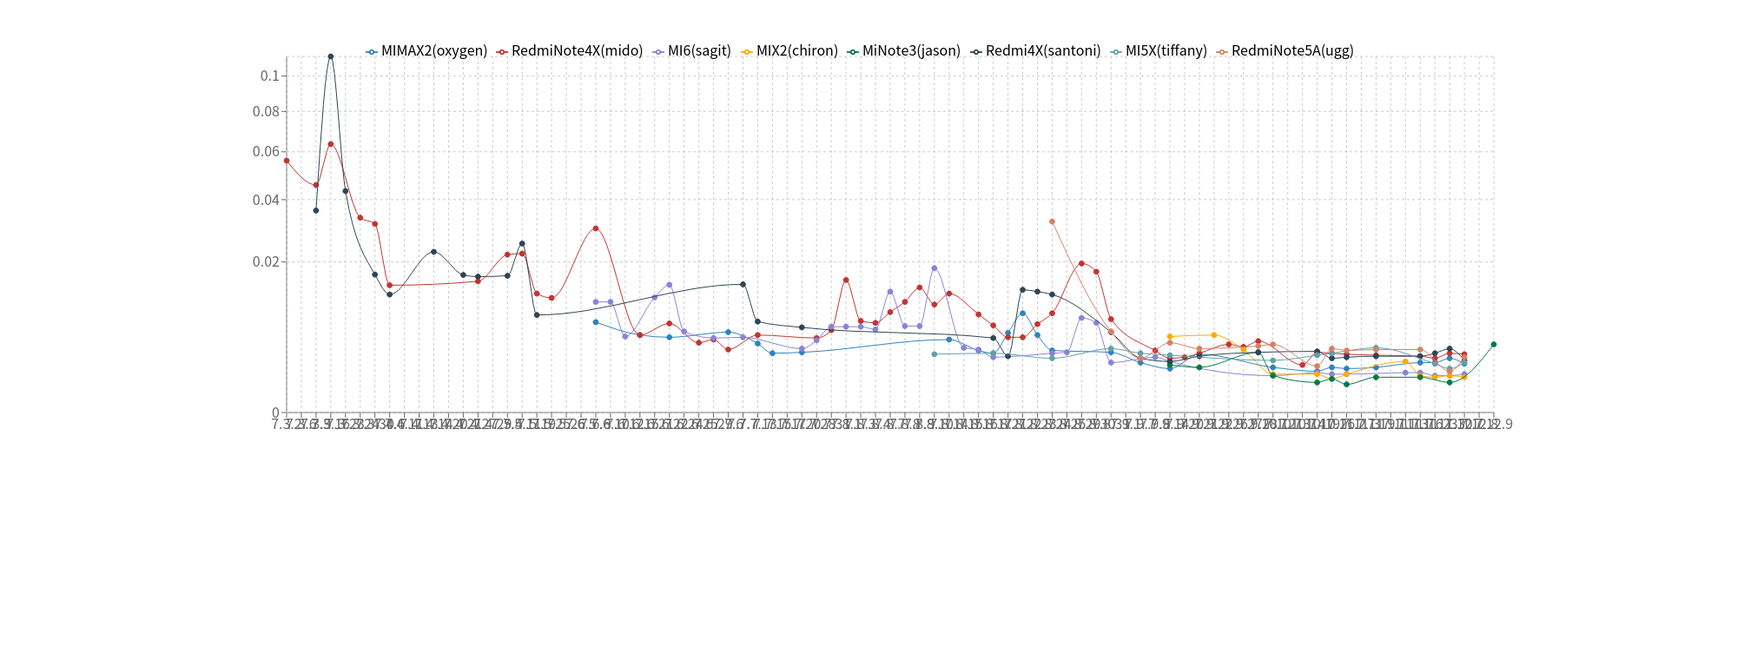
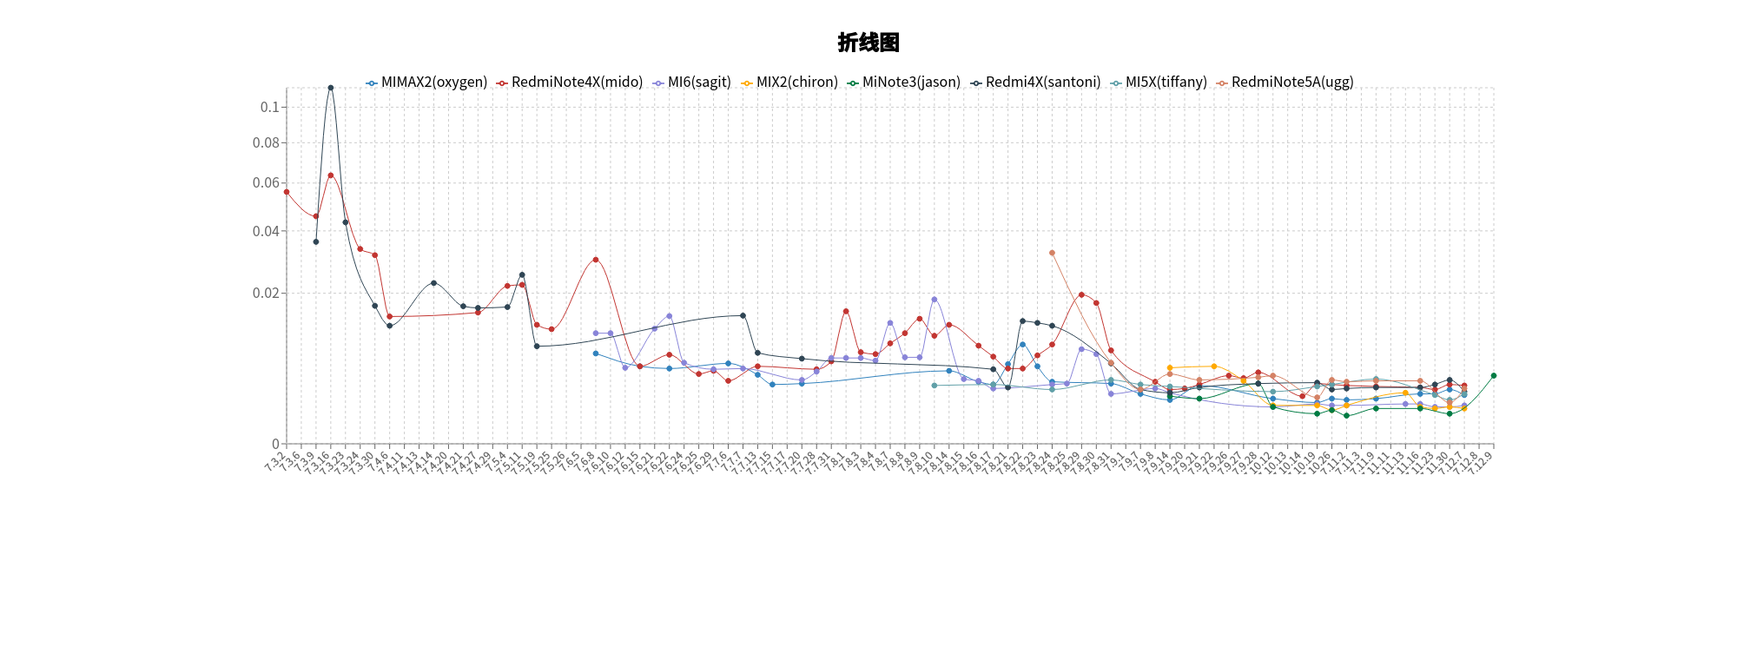
接收参数

Changed region(s): [[0.155, 0.375, 0.868, 0.7188], [0.155, 0.0312, 0.775, 0.4062]]

diff --git a/app/Application.js b/app/Application.js
@@ -1,7 +1,6 @@
 import React from 'react'
 import {LineChart,XAxis, Line, YAxis,Tooltip, CartesianGrid, Legend} from 'recharts'
 import Chart from './chart'
-const data = [{"all":"0.0280","all-attach":{"totalImeis":"1050874","totalExpCounts":"29432"},"RedmiNote4X(mido)":"0.0560","RedmiNote4X(mido)-attach":{"totalImeis":"5035","totalExpCounts":"282"},"index":"7.3.2","date":"7.3.2"},{"all":"0.0075","all-attach":{"totalImeis":"17248","totalExpCounts":"130"},"index":"7.3.6","date":"7.3.6"},{"all":"0.0165","all-attach":{"totalImeis":"1130270","totalExpCounts":"18663"},"RedmiNote4X(mido)":"0.0457","RedmiNote4X(mido)-attach":{"totalImeis":"7157","totalExpCounts":"327"},"Redmi4X(santoni)":"0.0360","Redmi4X(santoni)-attach":{"totalImeis":"445","totalExpCounts":"16"},"index":"7.3.9","date":"7.3.9"},{"all":"0.0164","all-attach":{"totalImeis":"1121344","totalExpCounts":"18422"},"RedmiNote4X(mido)":"0.0636","RedmiNote4X(mido)-attach":{"totalImeis":"8817","totalExpCounts":"561"},"Redmi4X(santoni)":"0.1119","Redmi4X(santoni)-attach":{"totalImeis":"831","totalExpCounts":"93"},"index":"7.3.16","date":"7.3.16"},{"all":"0.0185","all-attach":{"totalImeis":"1070167","totalExpCounts":"19802"},"Redmi4X(santoni)":"0.0433","Redmi4X(santoni)-attach":{"totalImeis":"1593","totalExpCounts":"69"},"index":"7.3.23","date":"7.3.23"},{"all":"0.0341","all-attach":{"totalImeis":"9981","totalExpCounts":"340"},"RedmiNote4X(mido)":"0.0335","RedmiNote4X(mido)-attach":{"totalImeis":"9944","totalExpCounts":"333"},"index":"7.3.24","date":"7.3.24"},{"all":"0.0132","all-attach":{"totalImeis":"1940706","totalExpCounts":"25578"},"RedmiNote4X(mido)":"0.0314","RedmiNote4X(mido)-attach":{"totalImeis":"14277","totalExpCounts":"449"},"Redmi4X(santoni)":"0.0168","Redmi4X(santoni)-attach":{"totalImeis":"3158","totalExpCounts":"53"},"index":"7.3.30","date":"7.3.30"},{"all":"0.0179","all-attach":{"totalImeis":"648760","totalExpCounts":"11636"},"RedmiNote4X(mido)":"0.0143","RedmiNote4X(mido)-attach":{"totalImeis":"52102","totalExpCounts":"746"},"Redmi4X(santoni)":"0.0123","Redmi4X(santoni)-attach":{"totalImeis":"4734","totalExpCounts":"58"},"index":"7.4.6","date":"7.4.6"},{"all":"0.0059","all-attach":{"totalImeis":"1046058","totalExpCounts":"6168"},"MI4S(aqua)":"0.0017","MI4S(aqua)-attach":{"totalImeis":"29341","totalExpCounts":"51"},"index":"7.4.11","date":"7.4.11"},{"all":"0.0095","all-attach":{"totalImeis":"638561","totalExpCounts":"6088"},"index":"7.4.13","date":"7.4.13"},{"all":"0.0164","all-attach":{"totalImeis":"130906","totalExpCounts":"2150"},"Redmi4X(santoni)":"0.0228","Redmi4X(santoni)-attach":{"totalImeis":"4820","totalExpCounts":"110"},"index":"7.4.14","date":"7.4.14"},{"all":"0.0097","all-attach":{"totalImeis":"1377396","totalExpCounts":"13362"},"MI4S(aqua)":"0.0019","MI4S(aqua)-attach":{"totalImeis":"43343","totalExpCounts":"81"},"index":"7.4.20","date":"7.4.20"},{"all":"0.0109","all-attach":{"totalImeis":"101165","totalExpCounts":"1098"},"Redmi4X(santoni)":"0.0167","Redmi4X(santoni)-attach":{"totalImeis":"3538","totalExpCounts":"59"},"index":"7.4.21","date":"7.4.21"},{"all":"0.0089","all-attach":{"totalImeis":"2407907","totalExpCounts":"21453"},"RedmiNote4X(mido)":"0.0152","RedmiNote4X(mido)-attach":{"totalImeis":"24675","totalExpCounts":"376"},"Redmi4X(santoni)":"0.0163","Redmi4X(santoni)-attach":{"totalImeis":"6988","totalExpCounts":"114"},"MI4S(aqua)":"0.0005","MI4S(aqua)-attach":{"totalImeis":"58487","totalExpCounts":"32"},"index":"7.4.27","date":"7.4.27"},{"all":"0.0039","all-attach":{"totalImeis":"743343","totalExpCounts":"2907"},"index":"7.4.29","date":"7.4.29"},{"all":"0.0085","all-attach":{"totalImeis":"2781554","totalExpCounts":"23577"},"RedmiNote4X(mido)":"0.0220","RedmiNote4X(mido)-attach":{"totalImeis":"24704","totalExpCounts":"544"},"Redmi4X(santoni)":"0.0165","Redmi4X(santoni)-attach":{"totalImeis":"6675","totalExpCounts":"110"},"MI4S(aqua)":"0.0046","MI4S(aqua)-attach":{"totalImeis":"48281","totalExpCounts":"223"},"index":"7.5.4","date":"7.5.4"},{"all":"0.0144","all-attach":{"totalImeis":"4025276","totalExpCounts":"58148"},"RedmiNote4X(mido)":"0.0223","RedmiNote4X(mido)-attach":{"totalImeis":"33323","totalExpCounts":"743"},"Redmi4X(santoni)":"0.0252","Redmi4X(santoni)-attach":{"totalImeis":"10716","totalExpCounts":"270"},"MI4S(aqua)":"0.0035","MI4S(aqua)-attach":{"totalImeis":"66274","totalExpCounts":"234"},"index":"7.5.11","date":"7.5.11"},{"all":"0.0064","all-attach":{"totalImeis":"1787866","totalExpCounts":"11370"},"RedmiNote4X(mido)":"0.0125","RedmiNote4X(mido)-attach":{"totalImeis":"18789","totalExpCounts":"235"},"Redmi4X(santoni)":"0.0084","Redmi4X(santoni)-attach":{"totalImeis":"76204","totalExpCounts":"640"},"MI4S(aqua)":"0.0020","MI4S(aqua)-attach":{"totalImeis":"36406","totalExpCounts":"72"},"index":"7.5.19","date":"7.5.19"},{"all":"0.0061","all-attach":{"totalImeis":"4859063","totalExpCounts":"29636"},"RedmiNote4X(mido)":"0.0116","RedmiNote4X(mido)-attach":{"totalImeis":"46375","totalExpCounts":"539"},"MI4S(aqua)":"0.0018","MI4S(aqua)-attach":{"totalImeis":"110028","totalExpCounts":"199"},"index":"7.5.25","date":"7.5.25"},{"all":"0.0141","all-attach":{"totalImeis":"287272","totalExpCounts":"4044"},"index":"7.5.26","date":"7.5.26"},{"all":"0.0156","all-attach":{"totalImeis":"117847","totalExpCounts":"1843"},"index":"7.6.5","date":"7.6.5"},{"all":"0.0068","all-attach":{"totalImeis":"6229716","totalExpCounts":"42604"},"MIMAX2(oxygen)":"0.0072","MIMAX2(oxygen)-attach":{"totalImeis":"2635","totalExpCounts":"19"},"RedmiNote4X(mido)":"0.0299","RedmiNote4X(mido)-attach":{"totalImeis":"31463","totalExpCounts":"940"},"MI6(sagit)":"0.0108","MI6(sagit)-attach":{"totalImeis":"12272","totalExpCounts":"132"},"index":"7.6.8","date":"7.6.8"},{"all":"0.0139","all-attach":{"totalImeis":"3962655","totalExpCounts":"55277"},"MI6(sagit)":"0.0108","MI6(sagit)-attach":{"totalImeis":"2221","totalExpCounts":"24"},"MI4S(aqua)":"0.0018","MI4S(aqua)-attach":{"totalImeis":"15204","totalExpCounts":"27"},"index":"7.6.10","date":"7.6.10"},{"all":"0.0083","all-attach":{"totalImeis":"16346","totalExpCounts":"136"},"MI6(sagit)":"0.0051","MI6(sagit)-attach":{"totalImeis":"15938","totalExpCounts":"82"},"index":"7.6.12","date":"7.6.12"},{"all":"0.0030","all-attach":{"totalImeis":"1589557","totalExpCounts":"4732"},"MIMAX2(oxygen)":"0.0053","MIMAX2(oxygen)-attach":{"totalImeis":"5520","totalExpCounts":"29"},"RedmiNote4X(mido)":"0.0053","RedmiNote4X(mido)-attach":{"totalImeis":"35378","totalExpCounts":"188"},"MI4S(aqua)":"0.0020","MI4S(aqua)-attach":{"totalImeis":"55440","totalExpCounts":"109"},"index":"7.6.15","date":"7.6.15"},{"all":"0.0120","all-attach":{"totalImeis":"1750","totalExpCounts":"21"},"MI6(sagit)":"0.0117","MI6(sagit)-attach":{"totalImeis":"1703","totalExpCounts":"20"},"index":"7.6.21","date":"7.6.21"},{"all":"0.0042","all-attach":{"totalImeis":"84176","totalExpCounts":"352"},"MIMAX2(oxygen)":"0.0050","MIMAX2(oxygen)-attach":{"totalImeis":"18825","totalExpCounts":"95"},"RedmiNote4X(mido)":"0.0070","RedmiNote4X(mido)-attach":{"totalImeis":"6868","totalExpCounts":"48"},"MI6(sagit)":"0.0144","MI6(sagit)-attach":{"totalImeis":"4014","totalExpCounts":"58"},"MI4S(aqua)":"0.0028","MI4S(aqua)-attach":{"totalImeis":"4936","totalExpCounts":"14"},"index":"7.6.22","date":"7.6.22"},{"all":"0.0058","all-attach":{"totalImeis":"45322","totalExpCounts":"263"},"MI6(sagit)":"0.0058","MI6(sagit)-attach":{"totalImeis":"45322","totalExpCounts":"263"},"index":"7.6.24","date":"7.6.24"},{"all":"0.0035","all-attach":{"totalImeis":"723113","totalExpCounts":"2564"},"RedmiNote4X(mido)":"0.0043","RedmiNote4X(mido)-attach":{"totalImeis":"39084","totalExpCounts":"169"},"MI4S(aqua)":"0.0019","MI4S(aqua)-attach":{"totalImeis":"26422","totalExpCounts":"51"},"index":"7.6.25","date":"7.6.25"},{"all":"0.0046","all-attach":{"totalImeis":"1426230","totalExpCounts":"6521"},"RedmiNote4X(mido)":"0.0047","RedmiNote4X(mido)-attach":{"totalImeis":"20676","totalExpCounts":"97"},"MI6(sagit)":"0.0049","MI6(sagit)-attach":{"totalImeis":"63275","totalExpCounts":"308"},"MI4S(aqua)":"0.0020","MI4S(aqua)-attach":{"totalImeis":"46822","totalExpCounts":"95"},"index":"7.6.29","date":"7.6.29"},{"all":"0.0041","all-attach":{"totalImeis":"1415234","totalExpCounts":"5753"},"MIMAX2(oxygen)":"0.0057","MIMAX2(oxygen)-attach":{"totalImeis":"10346","totalExpCounts":"59"},"RedmiNote4X(mido)":"0.0035","RedmiNote4X(mido)-attach":{"totalImeis":"43267","totalExpCounts":"152"},"MI4S(aqua)":"0.0020","MI4S(aqua)-attach":{"totalImeis":"47080","totalExpCounts":"94"},"index":"7.7.6","date":"7.7.6"},{"all":"0.0053","all-attach":{"totalImeis":"210807","totalExpCounts":"1120"},"MI6(sagit)":"0.0050","MI6(sagit)-attach":{"totalImeis":"203053","totalExpCounts":"1007"},"Redmi4X(santoni)":"0.0145","Redmi4X(santoni)-attach":{"totalImeis":"7698","totalExpCounts":"112"},"index":"7.7.7","date":"7.7.7"},{"all":"0.0044","all-attach":{"totalImeis":"1193781","totalExpCounts":"5212"},"MIMAX2(oxygen)":"0.0042","MIMAX2(oxygen)-attach":{"totalImeis":"3132","totalExpCounts":"13"},"RedmiNote4X(mido)":"0.0053","RedmiNote4X(mido)-attach":{"totalImeis":"92360","totalExpCounts":"491"},"Redmi4X(santoni)":"0.0073","Redmi4X(santoni)-attach":{"totalImeis":"14555","totalExpCounts":"106"},"MI4S(aqua)":"0.0023","MI4S(aqua)-attach":{"totalImeis":"48546","totalExpCounts":"114"},"index":"7.7.13","date":"7.7.13"},{"all":"0.0029","all-attach":{"totalImeis":"195710","totalExpCounts":"567"},"MIMAX2(oxygen)":"0.0031","MIMAX2(oxygen)-attach":{"totalImeis":"10002","totalExpCounts":"31"},"index":"7.7.15","date":"7.7.15"},{"all":"0.0063","all-attach":{"totalImeis":"1265","totalExpCounts":"8"},"index":"7.7.17","date":"7.7.17"},{"all":"0.0035","all-attach":{"totalImeis":"5280770","totalExpCounts":"18294"},"MIMAX2(oxygen)":"0.0032","MIMAX2(oxygen)-attach":{"totalImeis":"121719","totalExpCounts":"387"},"MI6(sagit)":"0.0036","MI6(sagit)-attach":{"totalImeis":"129957","totalExpCounts":"468"},"Redmi4X(santoni)":"0.0064","Redmi4X(santoni)-attach":{"totalImeis":"79085","totalExpCounts":"504"},"MI4S(aqua)":"0.0025","MI4S(aqua)-attach":{"totalImeis":"216240","totalExpCounts":"550"},"index":"7.7.20","date":"7.7.20"},{"all":"0.0047","all-attach":{"totalImeis":"60406","totalExpCounts":"286"},"RedmiNote4X(mido)":"0.0049","RedmiNote4X(mido)-attach":{"totalImeis":"16199","totalExpCounts":"79"},"MI6(sagit)":"0.0046","MI6(sagit)-attach":{"totalImeis":"43971","totalExpCounts":"204"},"index":"7.7.28","date":"7.7.28"},{"all":"0.0066","all-attach":{"totalImeis":"15693","totalExpCounts":"103"},"RedmiNote4X(mido)":"0.0060","RedmiNote4X(mido)-attach":{"totalImeis":"3969","totalExpCounts":"24"},"MI6(sagit)":"0.0065","MI6(sagit)-attach":{"totalImeis":"11589","totalExpCounts":"75"},"index":"7.7.31","date":"7.7.31"},{"all":"0.0087","all-attach":{"totalImeis":"19805","totalExpCounts":"172"},"RedmiNote4X(mido)":"0.0155","RedmiNote4X(mido)-attach":{"totalImeis":"4632","totalExpCounts":"72"},"MI6(sagit)":"0.0065","MI6(sagit)-attach":{"totalImeis":"14938","totalExpCounts":"97"},"index":"7.8.1","date":"7.8.1"},{"all":"0.0075","all-attach":{"totalImeis":"19556","totalExpCounts":"146"},"RedmiNote4X(mido)":"0.0074","RedmiNote4X(mido)-attach":{"totalImeis":"5278","totalExpCounts":"39"},"MI6(sagit)":"0.0065","MI6(sagit)-attach":{"totalImeis":"13795","totalExpCounts":"89"},"index":"7.8.3","date":"7.8.3"},{"all":"0.0064","all-attach":{"totalImeis":"102455","totalExpCounts":"653"},"RedmiNote4X(mido)":"0.0071","RedmiNote4X(mido)-attach":{"totalImeis":"27789","totalExpCounts":"197"},"MI6(sagit)":"0.0061","MI6(sagit)-attach":{"totalImeis":"74489","totalExpCounts":"455"},"index":"7.8.4","date":"7.8.4"},{"all":"0.0118","all-attach":{"totalImeis":"17033","totalExpCounts":"201"},"RedmiNote4X(mido)":"0.0089","RedmiNote4X(mido)-attach":{"totalImeis":"4966","totalExpCounts":"44"},"MI6(sagit)":"0.0129","MI6(sagit)-attach":{"totalImeis":"11755","totalExpCounts":"152"},"index":"7.8.7","date":"7.8.7"},{"all":"0.0077","all-attach":{"totalImeis":"28924","totalExpCounts":"224"},"RedmiNote4X(mido)":"0.0108","RedmiNote4X(mido)-attach":{"totalImeis":"7342","totalExpCounts":"79"},"MI6(sagit)":"0.0066","MI6(sagit)-attach":{"totalImeis":"21460","totalExpCounts":"142"},"index":"7.8.8","date":"7.8.8"},{"all":"0.0089","all-attach":{"totalImeis":"23967","totalExpCounts":"213"},"RedmiNote4X(mido)":"0.0138","RedmiNote4X(mido)-attach":{"totalImeis":"6973","totalExpCounts":"96"},"MI6(sagit)":"0.0066","MI6(sagit)-attach":{"totalImeis":"16959","totalExpCounts":"112"},"index":"7.8.9","date":"7.8.9"},{"all":"0.0151","all-attach":{"totalImeis":"426689","totalExpCounts":"6427"},"RedmiNote4X(mido)":"0.0103","RedmiNote4X(mido)-attach":{"totalImeis":"99359","totalExpCounts":"1019"},"MI6(sagit)":"0.0184","MI6(sagit)-attach":{"totalImeis":"287314","totalExpCounts":"5275"},"MI5X(tiffany)":"0.0030","MI5X(tiffany)-attach":{"totalImeis":"39782","totalExpCounts":"118"},"index":"7.8.10","date":"7.8.10"},{"all":"0.0469","all-attach":{"totalImeis":"38238","totalExpCounts":"1792"},"MIMAX2(oxygen)":"0.0047","MIMAX2(oxygen)-attach":{"totalImeis":"2991","totalExpCounts":"14"},"RedmiNote4X(mido)":"0.0125","RedmiNote4X(mido)-attach":{"totalImeis":"14254","totalExpCounts":"178"},"index":"7.8.14","date":"7.8.14"},{"all":"0.0037","all-attach":{"totalImeis":"98361","totalExpCounts":"368"},"MI6(sagit)":"0.0037","MI6(sagit)-attach":{"totalImeis":"98077","totalExpCounts":"364"},"index":"7.8.15","date":"7.8.15"},{"all":"0.0190","all-attach":{"totalImeis":"42882","totalExpCounts":"813"},"MIMAX2(oxygen)":"0.0034","MIMAX2(oxygen)-attach":{"totalImeis":"1467","totalExpCounts":"5"},"RedmiNote4X(mido)":"0.0085","RedmiNote4X(mido)-attach":{"totalImeis":"9500","totalExpCounts":"81"},"MI6(sagit)":"0.0035","MI6(sagit)-attach":{"totalImeis":"23025","totalExpCounts":"81"},"index":"7.8.16","date":"7.8.16"},{"all":"0.0045","all-attach":{"totalImeis":"681186","totalExpCounts":"3070"},"MIMAX2(oxygen)":"0.0031","MIMAX2(oxygen)-attach":{"totalImeis":"8663","totalExpCounts":"27"},"RedmiNote4X(mido)":"0.0067","RedmiNote4X(mido)-attach":{"totalImeis":"100432","totalExpCounts":"670"},"MI6(sagit)":"0.0027","MI6(sagit)-attach":{"totalImeis":"348021","totalExpCounts":"952"},"Redmi4X(santoni)":"0.0049","Redmi4X(santoni)-attach":{"totalImeis":"4911","totalExpCounts":"24"},"MI5X(tiffany)":"0.0031","MI5X(tiffany)-attach":{"totalImeis":"62020","totalExpCounts":"194"},"index":"7.8.17","date":"7.8.17"},{"all":"0.0052","all-attach":{"totalImeis":"39646","totalExpCounts":"208"},"MIMAX2(oxygen)":"0.0056","MIMAX2(oxygen)-attach":{"totalImeis":"1598","totalExpCounts":"9"},"RedmiNote4X(mido)":"0.0050","RedmiNote4X(mido)-attach":{"totalImeis":"8963","totalExpCounts":"45"},"Redmi4X(santoni)":"0.0028","Redmi4X(santoni)-attach":{"totalImeis":"704","totalExpCounts":"2"},"index":"7.8.21","date":"7.8.21"},{"all":"0.0066","all-attach":{"totalImeis":"28354","totalExpCounts":"187"},"MIMAX2(oxygen)":"0.0087","MIMAX2(oxygen)-attach":{"totalImeis":"1378","totalExpCounts":"12"},"RedmiNote4X(mido)":"0.0050","RedmiNote4X(mido)-attach":{"totalImeis":"7249","totalExpCounts":"36"},"Redmi4X(santoni)":"0.0133","Redmi4X(santoni)-attach":{"totalImeis":"526","totalExpCounts":"7"},"index":"7.8.22","date":"7.8.22"},{"all":"0.0120","all-attach":{"totalImeis":"33394","totalExpCounts":"401"},"MIMAX2(oxygen)":"0.0053","MIMAX2(oxygen)-attach":{"totalImeis":"1327","totalExpCounts":"7"},"RedmiNote4X(mido)":"0.0069","RedmiNote4X(mido)-attach":{"totalImeis":"8553","totalExpCounts":"59"},"Redmi4X(santoni)":"0.0129","Redmi4X(santoni)-attach":{"totalImeis":"541","totalExpCounts":"7"},"index":"7.8.23","date":"7.8.23"},{"all":"0.0043","all-attach":{"totalImeis":"2423530","totalExpCounts":"10542"},"MIMAX2(oxygen)":"0.0034","MIMAX2(oxygen)-attach":{"totalImeis":"54132","totalExpCounts":"183"},"RedmiNote4X(mido)":"0.0087","RedmiNote4X(mido)-attach":{"totalImeis":"110793","totalExpCounts":"969"},"MI6(sagit)":"0.0031","MI6(sagit)-attach":{"totalImeis":"595859","totalExpCounts":"1844"},"Redmi4X(santoni)":"0.0123","Redmi4X(santoni)-attach":{"totalImeis":"38918","totalExpCounts":"477"},"MI5X(tiffany)":"0.0026","MI5X(tiffany)-attach":{"totalImeis":"87969","totalExpCounts":"230"},"RedmiNote5A(ugg)":"0.0322","RedmiNote5A(ugg)-attach":{"totalImeis":"1272","totalExpCounts":"41"},"MI4S(aqua)":"0.0026","MI4S(aqua)-attach":{"totalImeis":"54744","totalExpCounts":"145"},"index":"7.8.24","date":"7.8.24"},{"all":"0.0032","all-attach":{"totalImeis":"127333","totalExpCounts":"411"},"MI6(sagit)":"0.0032","MI6(sagit)-attach":{"totalImeis":"127093","totalExpCounts":"408"},"index":"7.8.25","date":"7.8.25"},{"all":"0.0112","all-attach":{"totalImeis":"34076","totalExpCounts":"380"},"RedmiNote4X(mido)":"0.0196","RedmiNote4X(mido)-attach":{"totalImeis":"9422","totalExpCounts":"185"},"MI6(sagit)":"0.0079","MI6(sagit)-attach":{"totalImeis":"24193","totalExpCounts":"192"},"index":"7.8.29","date":"7.8.29"},{"all":"0.0086","all-attach":{"totalImeis":"59394","totalExpCounts":"511"},"RedmiNote4X(mido)":"0.0175","RedmiNote4X(mido)-attach":{"totalImeis":"8493","totalExpCounts":"149"},"MI6(sagit)":"0.0071","MI6(sagit)-attach":{"totalImeis":"41162","totalExpCounts":"293"},"index":"7.8.30","date":"7.8.30"},{"all":"0.0034","all-attach":{"totalImeis":"2363607","totalExpCounts":"8132"},"MIMAX2(oxygen)":"0.0032","MIMAX2(oxygen)-attach":{"totalImeis":"56546","totalExpCounts":"183"},"RedmiNote4X(mido)":"0.0077","RedmiNote4X(mido)-attach":{"totalImeis":"107969","totalExpCounts":"829"},"MI6(sagit)":"0.0022","MI6(sagit)-attach":{"totalImeis":"563355","totalExpCounts":"1229"},"Redmi4X(santoni)":"0.0057","Redmi4X(santoni)-attach":{"totalImeis":"41870","totalExpCounts":"239"},"MI5X(tiffany)":"0.0036","MI5X(tiffany)-attach":{"totalImeis":"103233","totalExpCounts":"372"},"RedmiNote5A(ugg)":"0.0058","RedmiNote5A(ugg)-attach":{"totalImeis":"2744","totalExpCounts":"16"},"MI4S(aqua)":"0.0024","MI4S(aqua)-attach":{"totalImeis":"51854","totalExpCounts":"122"},"index":"7.8.31","date":"7.8.31"},{"all":"0.0053","all-attach":{"totalImeis":"95140","totalExpCounts":"502"},"index":"7.9.1","date":"7.9.1"},{"all":"0.0066","all-attach":{"totalImeis":"1886151","totalExpCounts":"12535"},"MIMAX2(oxygen)":"0.0022","MIMAX2(oxygen)-attach":{"totalImeis":"71357","totalExpCounts":"159"},"Redmi4X(santoni)":"0.0026","Redmi4X(santoni)-attach":{"totalImeis":"42837","totalExpCounts":"113"},"MI5X(tiffany)":"0.0031","MI5X(tiffany)-attach":{"totalImeis":"106755","totalExpCounts":"336"},"RedmiNote5A(ugg)":"0.0026","RedmiNote5A(ugg)-attach":{"totalImeis":"3802","totalExpCounts":"10"},"MI4S(aqua)":"0.0033","MI4S(aqua)-attach":{"totalImeis":"49326","totalExpCounts":"164"},"index":"7.9.7","date":"7.9.7"},{"all":"0.0036","all-attach":{"totalImeis":"1411038","totalExpCounts":"5089"},"RedmiNote4X(mido)":"0.0034","RedmiNote4X(mido)-attach":{"totalImeis":"113282","totalExpCounts":"390"},"MI6(sagit)":"0.0027","MI6(sagit)-attach":{"totalImeis":"430539","totalExpCounts":"1175"},"index":"7.9.8","date":"7.9.8"},{"all":"0.0036","all-attach":{"totalImeis":"4337435","totalExpCounts":"15486"},"MIMAX2(oxygen)":"0.0017","MIMAX2(oxygen)-attach":{"totalImeis":"89518","totalExpCounts":"152"},"RedmiNote4X(mido)":"0.0026","RedmiNote4X(mido)-attach":{"totalImeis":"222801","totalExpCounts":"582"},"MI6(sagit)":"0.0023","MI6(sagit)-attach":{"totalImeis":"875224","totalExpCounts":"1983"},"MIX2(chiron)":"0.0051","MIX2(chiron)-attach":{"totalImeis":"6732","totalExpCounts":"34"},"MiNote3(jason)":"0.0020","MiNote3(jason)-attach":{"totalImeis":"56401","totalExpCounts":"110"},"Redmi4X(santoni)":"0.0023","Redmi4X(santoni)-attach":{"totalImeis":"39428","totalExpCounts":"90"},"MI5X(tiffany)":"0.0029","MI5X(tiffany)-attach":{"totalImeis":"409334","totalExpCounts":"1200"},"RedmiNote5A(ugg)":"0.0043","RedmiNote5A(ugg)-attach":{"totalImeis":"4234","totalExpCounts":"18"},"MI4S(aqua)":"0.0014","MI4S(aqua)-attach":{"totalImeis":"44757","totalExpCounts":"62"},"index":"7.9.14","date":"7.9.14"},{"all":"0.0033","all-attach":{"totalImeis":"23174","totalExpCounts":"76"},"RedmiNote4X(mido)":"0.0027","RedmiNote4X(mido)-attach":{"totalImeis":"22921","totalExpCounts":"62"},"index":"7.9.20","date":"7.9.20"},{"all":"0.0054","all-attach":{"totalImeis":"6730811","totalExpCounts":"36318"},"MIMAX2(oxygen)":"0.0030","MIMAX2(oxygen)-attach":{"totalImeis":"236110","totalExpCounts":"716"},"RedmiNote4X(mido)":"0.0031","RedmiNote4X(mido)-attach":{"totalImeis":"8706","totalExpCounts":"27"},"MiNote3(jason)":"0.0018","MiNote3(jason)-attach":{"totalImeis":"1646","totalExpCounts":"3"},"Redmi4X(santoni)":"0.0028","Redmi4X(santoni)-attach":{"totalImeis":"97044","totalExpCounts":"270"},"RedmiNote5A(ugg)":"0.0036","RedmiNote5A(ugg)-attach":{"totalImeis":"14939","totalExpCounts":"54"},"MI4S(aqua)":"0.0021","MI4S(aqua)-attach":{"totalImeis":"114310","totalExpCounts":"243"},"index":"7.9.21","date":"7.9.21"},{"all":"0.0053","all-attach":{"totalImeis":"110728","totalExpCounts":"587"},"MIX2(chiron)":"0.0053","MIX2(chiron)-attach":{"totalImeis":"110435","totalExpCounts":"586"},"index":"7.9.22","date":"7.9.22"},{"all":"0.0041","all-attach":{"totalImeis":"4376","totalExpCounts":"18"},"RedmiNote4X(mido)":"0.0041","RedmiNote4X(mido)-attach":{"totalImeis":"4376","totalExpCounts":"18"},"index":"7.9.26","date":"7.9.26"},{"all":"0.0035","all-attach":{"totalImeis":"49571","totalExpCounts":"175"},"RedmiNote4X(mido)":"0.0038","RedmiNote4X(mido)-attach":{"totalImeis":"1568","totalExpCounts":"6"},"MIX2(chiron)":"0.0035","MIX2(chiron)-attach":{"totalImeis":"47753","totalExpCounts":"168"},"index":"7.9.27","date":"7.9.27"},{"all":"0.0030","all-attach":{"totalImeis":"1160611","totalExpCounts":"3484"},"RedmiNote4X(mido)":"0.0045","RedmiNote4X(mido)-attach":{"totalImeis":"20351","totalExpCounts":"92"},"MiNote3(jason)":"0.0032","MiNote3(jason)-attach":{"totalImeis":"2525","totalExpCounts":"8"},"Redmi4X(santoni)":"0.0032","Redmi4X(santoni)-attach":{"totalImeis":"79226","totalExpCounts":"254"},"RedmiNote5A(ugg)":"0.0039","RedmiNote5A(ugg)-attach":{"totalImeis":"4367","totalExpCounts":"17"},"MI4S(aqua)":"0.0019","MI4S(aqua)-attach":{"totalImeis":"27475","totalExpCounts":"52"},"index":"7.9.28","date":"7.9.28"},{"all":"0.0031","all-attach":{"totalImeis":"4433738","totalExpCounts":"13724"},"MIMAX2(oxygen)":"0.0018","MIMAX2(oxygen)-attach":{"totalImeis":"148452","totalExpCounts":"264"},"MI6(sagit)":"0.0012","MI6(sagit)-attach":{"totalImeis":"722690","totalExpCounts":"879"},"MIX2(chiron)":"0.0013","MIX2(chiron)-attach":{"totalImeis":"115460","totalExpCounts":"145"},"MiNote3(jason)":"0.0012","MiNote3(jason)-attach":{"totalImeis":"44361","totalExpCounts":"52"},"MI5X(tiffany)":"0.0024","MI5X(tiffany)-attach":{"totalImeis":"174771","totalExpCounts":"413"},"RedmiNote5A(ugg)":"0.0041","RedmiNote5A(ugg)-attach":{"totalImeis":"9567","totalExpCounts":"39"},"MI4S(aqua)":"0.0014","MI4S(aqua)-attach":{"totalImeis":"52577","totalExpCounts":"76"},"index":"7.10.12","date":"7.10.12"},{"all":"0.0026","all-attach":{"totalImeis":"8061","totalExpCounts":"21"},"index":"7.10.13","date":"7.10.13"},{"all":"0.0020","all-attach":{"totalImeis":"131278","totalExpCounts":"259"},"RedmiNote4X(mido)":"0.0020","RedmiNote4X(mido)-attach":{"totalImeis":"131278","totalExpCounts":"259"},"index":"7.10.14","date":"7.10.14"},{"all":"0.0033","all-attach":{"totalImeis":"4964282","totalExpCounts":"16511"},"MIMAX2(oxygen)":"0.0015","MIMAX2(oxygen)-attach":{"totalImeis":"152118","totalExpCounts":"227"},"RedmiNote4X(mido)":"0.0032","RedmiNote4X(mido)-attach":{"totalImeis":"216638","totalExpCounts":"701"},"MI6(sagit)":"0.0014","MI6(sagit)-attach":{"totalImeis":"870373","totalExpCounts":"1223"},"MIX2(chiron)":"0.0013","MIX2(chiron)-attach":{"totalImeis":"140178","totalExpCounts":"186"},"MiNote3(jason)":"0.0008","MiNote3(jason)-attach":{"totalImeis":"50318","totalExpCounts":"42"},"Redmi4X(santoni)":"0.0033","Redmi4X(santoni)-attach":{"totalImeis":"54694","totalExpCounts":"182"},"MI5X(tiffany)":"0.0029","MI5X(tiffany)-attach":{"totalImeis":"154018","totalExpCounts":"441"},"RedmiNote5A(ugg)":"0.0019","RedmiNote5A(ugg)-attach":{"totalImeis":"11011","totalExpCounts":"21"},"MI4S(aqua)":"0.0016","MI4S(aqua)-attach":{"totalImeis":"51945","totalExpCounts":"84"},"index":"7.10.19","date":"7.10.19"},{"all":"0.0029","all-attach":{"totalImeis":"5116604","totalExpCounts":"14660"},"MIMAX2(oxygen)":"0.0018","MIMAX2(oxygen)-attach":{"totalImeis":"146896","totalExpCounts":"263"},"RedmiNote4X(mido)":"0.0031","RedmiNote4X(mido)-attach":{"totalImeis":"204844","totalExpCounts":"631"},"MI6(sagit)":"0.0013","MI6(sagit)-attach":{"totalImeis":"820414","totalExpCounts":"1069"},"MIX2(chiron)":"0.0010","MIX2(chiron)-attach":{"totalImeis":"146285","totalExpCounts":"153"},"MiNote3(jason)":"0.0010","MiNote3(jason)-attach":{"totalImeis":"51913","totalExpCounts":"50"},"Redmi4X(santoni)":"0.0026","Redmi4X(santoni)-attach":{"totalImeis":"54076","totalExpCounts":"140"},"MI5X(tiffany)":"0.0031","MI5X(tiffany)-attach":{"totalImeis":"260204","totalExpCounts":"818"},"RedmiNote5A(ugg)":"0.0036","RedmiNote5A(ugg)-attach":{"totalImeis":"11678","totalExpCounts":"42"},"MI4S(aqua)":"0.0017","MI4S(aqua)-attach":{"totalImeis":"68795","totalExpCounts":"114"},"index":"7.10.26","date":"7.10.26"},{"all":"0.0030","all-attach":{"totalImeis":"3898677","totalExpCounts":"11818"},"MIMAX2(oxygen)":"0.0017","MIMAX2(oxygen)-attach":{"totalImeis":"134028","totalExpCounts":"228"},"RedmiNote4X(mido)":"0.0030","RedmiNote4X(mido)-attach":{"totalImeis":"248133","totalExpCounts":"755"},"MI6(sagit)":"0.0013","MI6(sagit)-attach":{"totalImeis":"642974","totalExpCounts":"818"},"MIX2(chiron)":"0.0013","MIX2(chiron)-attach":{"totalImeis":"146200","totalExpCounts":"189"},"MiNote3(jason)":"0.0007","MiNote3(jason)-attach":{"totalImeis":"52230","totalExpCounts":"39"},"Redmi4X(santoni)":"0.0027","Redmi4X(santoni)-attach":{"totalImeis":"62512","totalExpCounts":"167"},"RedmiNote5A(ugg)":"0.0034","RedmiNote5A(ugg)-attach":{"totalImeis":"14087","totalExpCounts":"48"},"index":"7.11.2","date":"7.11.2"},{"all":"0.0025","all-attach":{"totalImeis":"613104","totalExpCounts":"1549"},"MI4S(aqua)":"0.0017","MI4S(aqua)-attach":{"totalImeis":"37617","totalExpCounts":"64"},"index":"7.11.3","date":"7.11.3"},{"all":"0.0033","all-attach":{"totalImeis":"3607336","totalExpCounts":"11871"},"MIMAX2(oxygen)":"0.0018","MIMAX2(oxygen)-attach":{"totalImeis":"141707","totalExpCounts":"250"},"RedmiNote4X(mido)":"0.0029","RedmiNote4X(mido)-attach":{"totalImeis":"209044","totalExpCounts":"603"},"MiNote3(jason)":"0.0011","MiNote3(jason)-attach":{"totalImeis":"60629","totalExpCounts":"68"},"Redmi4X(santoni)":"0.0028","Redmi4X(santoni)-attach":{"totalImeis":"59805","totalExpCounts":"165"},"MI5X(tiffany)":"0.0037","MI5X(tiffany)-attach":{"totalImeis":"152551","totalExpCounts":"569"},"RedmiNote5A(ugg)":"0.0035","RedmiNote5A(ugg)-attach":{"totalImeis":"14221","totalExpCounts":"50"},"MI4S(aqua)":"0.0026","MI4S(aqua)-attach":{"totalImeis":"50977","totalExpCounts":"130"},"index":"7.11.9","date":"7.11.9"},{"all":"0.0026","all-attach":{"totalImeis":"135972","totalExpCounts":"354"},"index":"7.11.11","date":"7.11.11"},{"all":"0.0015","all-attach":{"totalImeis":"400107","totalExpCounts":"615"},"MI6(sagit)":"0.0014","MI6(sagit)-attach":{"totalImeis":"335336","totalExpCounts":"462"},"MIX2(chiron)":"0.0023","MIX2(chiron)-attach":{"totalImeis":"64741","totalExpCounts":"150"},"index":"7.11.13","date":"7.11.13"},{"all":"0.0045","all-attach":{"totalImeis":"5001417","totalExpCounts":"22737"},"MIMAX2(oxygen)":"0.0022","MIMAX2(oxygen)-attach":{"totalImeis":"135393","totalExpCounts":"294"},"RedmiNote4X(mido)":"0.0028","RedmiNote4X(mido)-attach":{"totalImeis":"199890","totalExpCounts":"559"},"MI6(sagit)":"0.0014","MI6(sagit)-attach":{"totalImeis":"767775","totalExpCounts":"1059"},"MIX2(chiron)":"0.0012","MIX2(chiron)-attach":{"totalImeis":"156333","totalExpCounts":"182"},"MiNote3(jason)":"0.0011","MiNote3(jason)-attach":{"totalImeis":"126968","totalExpCounts":"145"},"Redmi4X(santoni)":"0.0028","Redmi4X(santoni)-attach":{"totalImeis":"52912","totalExpCounts":"148"},"RedmiNote5A(ugg)":"0.0035","RedmiNote5A(ugg)-attach":{"totalImeis":"28879","totalExpCounts":"101"},"MI4S(aqua)":"0.0013","MI4S(aqua)-attach":{"totalImeis":"47848","totalExpCounts":"64"},"index":"7.11.16","date":"7.11.16"},{"all":"0.0041","all-attach":{"totalImeis":"4507750","totalExpCounts":"18371"},"MIMAX2(oxygen)":"0.0022","MIMAX2(oxygen)-attach":{"totalImeis":"132309","totalExpCounts":"294"},"RedmiNote4X(mido)":"0.0026","RedmiNote4X(mido)-attach":{"totalImeis":"187852","totalExpCounts":"480"},"MI6(sagit)":"0.0012","MI6(sagit)-attach":{"totalImeis":"614395","totalExpCounts":"750"},"MIX2(chiron)":"0.0011","MIX2(chiron)-attach":{"totalImeis":"148449","totalExpCounts":"163"},"Redmi4X(santoni)":"0.0031","Redmi4X(santoni)-attach":{"totalImeis":"51232","totalExpCounts":"157"},"MI5X(tiffany)":"0.0021","MI5X(tiffany)-attach":{"totalImeis":"172548","totalExpCounts":"354"},"MI4S(aqua)":"0.0013","MI4S(aqua)-attach":{"totalImeis":"47617","totalExpCounts":"64"},"index":"7.11.23","date":"7.11.23"},{"all":"0.0048","all-attach":{"totalImeis":"5033583","totalExpCounts":"23915"},"MIMAX2(oxygen)":"0.0026","MIMAX2(oxygen)-attach":{"totalImeis":"131533","totalExpCounts":"345"},"RedmiNote4X(mido)":"0.0031","RedmiNote4X(mido)-attach":{"totalImeis":"189889","totalExpCounts":"585"},"MI6(sagit)":"0.0012","MI6(sagit)-attach":{"totalImeis":"758285","totalExpCounts":"904"},"MIX2(chiron)":"0.0012","MIX2(chiron)-attach":{"totalImeis":"156067","totalExpCounts":"185"},"MiNote3(jason)":"0.0008","MiNote3(jason)-attach":{"totalImeis":"100498","totalExpCounts":"84"},"Redmi4X(santoni)":"0.0036","Redmi4X(santoni)-attach":{"totalImeis":"52085","totalExpCounts":"187"},"MI5X(tiffany)":"0.0017","MI5X(tiffany)-attach":{"totalImeis":"159641","totalExpCounts":"278"},"RedmiNote5A(ugg)":"0.0015","RedmiNote5A(ugg)-attach":{"totalImeis":"12953","totalExpCounts":"19"},"MI4S(aqua)":"0.0014","MI4S(aqua)-attach":{"totalImeis":"63494","totalExpCounts":"92"},"index":"7.11.30","date":"7.11.30"},{"all":"0.0026","all-attach":{"totalImeis":"2149029","totalExpCounts":"5497"},"MIMAX2(oxygen)":"0.0021","MIMAX2(oxygen)-attach":{"totalImeis":"75700","totalExpCounts":"157"},"RedmiNote4X(mido)":"0.0030","RedmiNote4X(mido)-attach":{"totalImeis":"110950","totalExpCounts":"335"},"MI6(sagit)":"0.0013","MI6(sagit)-attach":{"totalImeis":"487831","totalExpCounts":"614"},"MIX2(chiron)":"0.0011","MIX2(chiron)-attach":{"totalImeis":"96371","totalExpCounts":"102"},"Redmi4X(santoni)":"0.0024","Redmi4X(santoni)-attach":{"totalImeis":"28027","totalExpCounts":"66"},"MI5X(tiffany)":"0.0022","MI5X(tiffany)-attach":{"totalImeis":"91052","totalExpCounts":"200"},"RedmiNote5A(ugg)":"0.0027","RedmiNote5A(ugg)-attach":{"totalImeis":"7062","totalExpCounts":"19"},"index":"7.12.7","date":"7.12.7"},{"all":"0.0121","all-attach":{"totalImeis":"172548","totalExpCounts":"2084"},"MI4S(aqua)":"0.0014","MI4S(aqua)-attach":{"totalImeis":"9427","totalExpCounts":"13"},"index":"7.12.8","date":"7.12.8"},{"all":"0.0033","all-attach":{"totalImeis":"6939","totalExpCounts":"23"},"MiNote3(jason)":"0.0041","MiNote3(jason)-attach":{"totalImeis":"1932","totalExpCounts":"8"},"index":"7.12.9","date":"7.12.9"}]
 
 class Application extends React.Component {
 	constructor(props) {
@@ -10,12 +9,13 @@ class Application extends React.Component {
 	}
 	render() {
 
-
-        const settings = ['MIMAX2(oxygen)','RedmiNote4X(mido)','MI6(sagit)','MIX2(chiron)','MiNote3(jason)','Redmi4X(santoni)','MI5X(tiffany)','RedmiNote5A(ugg)',].map((y) => ({y}))
+		const {settings=[], data=[], title} = this.props;
+		// console.log(settings, data, title);
+        // const settings = ['MIMAX2(oxygen)','RedmiNote4X(mido)','MI6(sagit)','MIX2(chiron)','MiNote3(jason)','Redmi4X(santoni)','MI5X(tiffany)','RedmiNote5A(ugg)',].map((y) => ({y}))
         return (
 
             <div style={{width:'100%', backgroundColor: 'white'}}>
-                <Chart data={data} settings={settings}></Chart>
+                <Chart data={data} settings={settings.map((y) => ({y}))} title={title}></Chart>
             </div>
 
 

diff --git a/app/chart/lineChart.js b/app/chart/lineChart.js
@@ -1,6 +1,7 @@
 import  React from 'react'
 import color from '../colors'
-import {LineChart,XAxis, Line, YAxis,Tooltip, CartesianGrid, Legend, ReferenceLine} from 'recharts'
+import CustomizedAxisTick from './tick'
+import {LineChart,XAxis, Line, YAxis,Tooltip, CartesianGrid, Legend, ReferenceLine, Label} from 'recharts'
 const data = [
       {name: 'Page A', uv: 4000, pv: 2400, amt: 2400},
       {name: 'Page B', uv: 3000, pv: 1398, amt: 2210},
@@ -58,7 +59,7 @@ class Application extends React.Component {
                     style={{display: 'block', margin: 'auto'}}
     	            margin={{top: 5, right: 30, left: 20, bottom: 5}}>
 
-                        <XAxis dataKey="index"/>
+                        <XAxis dataKey="index" tick={<CustomizedAxisTick/>} />
                         <YAxis  domain={[0, `dataMax+${parseInt(yDangerousValue||0)}`]} scale='sqrt'/>
                         <CartesianGrid strokeDasharray="3 3"/>;
                         <ReferenceLine y={yDangerousValue} stroke="red" strokeDasharray="3 3" strokeWidth='3' isFront={true} label={<CustomizedLabel yDangerousValue={yDangerousValue}></CustomizedLabel>} />

diff --git a/server/page.js b/server/page.js
@@ -3,16 +3,19 @@ var ReactDOMServer = require('react-dom/server');
 var Application = require("../app/Application").default;
 
 
-module.exports = function(req, scriptFilename) {
-    console.log(scriptFilename,'scriptFilename');
+module.exports = function(req, scriptFilename, query={}) {
+    const settings = query.settings || [],
+        data = query.data || [],
+        title = query.title
     const pageStr = ReactDOMServer.renderToStaticMarkup(
         <html lang="en">
             <head>
+                <meta charset="utf-8"/>
                 <link rel="stylesheet" media="all" href="/assets/styles.css"/>
             </head>
             <body>
                 <div id="content">
-                    <Application></Application>
+                    <Application settings={settings} data={data} title={title}></Application>
                 </div>
             </body>
             <script src='/assets/bundle.js'></script>

diff --git a/server/actions/getImgs/getLines.js b/server/actions/getImgs/getLines.js
@@ -4,6 +4,9 @@ var stats = require("../../stats.generated.json");
 var path = require("path");
 
 module.exports = function (req, res) {
+
+    let params = req.body || {};
+
     const options = {
     	windowSize:{
     		width: 2000,
@@ -12,7 +15,7 @@ module.exports = function (req, res) {
     	siteType:'html',
     	defaultWhiteBackground:true
     }
-    const str = page(req, stats.assetsByChunkName.main);
+    const str = page(req, stats.assetsByChunkName.main, params);
     var renderStream =	webshot(str, 'hello_world.png',options, function(err, data) {
       res.download(path.join(__dirname,'../../../hello_world.png'));
     });

diff --git a/app/chart/tick/index.js b/app/chart/tick/index.js
@@ -1,0 +1,24 @@
+import React from 'react';
+
+class Tick extends React.Component {
+
+	constructor(props) {
+		super(props);
+	}
+
+	render(){
+		const {x, y, stroke, payload, rotate=45, textLength=15} = this.props;
+			if(!payload.value) {
+				return null;
+			}
+			let name = payload.value;
+			name = name.length >textLength? name.slice(0,textLength) + '...' : name;
+			return (
+			<g transform={`translate(${x},${y})`}>
+		        <text x={-5} y={-12} dy={16} textAnchor="end" style={{fontSize: 12}} fill="#666" transform={`rotate(-${rotate})`}>{name}</text>
+			</g>
+		);
+	}
+}
+
+export default Tick;

diff --git a/server/index.js b/server/index.js
@@ -1,14 +1,14 @@
 var express = require("express");
 var path = require("path");
-
-var fs   = require('fs');
 var app = express();
-
-var route = require('./route')
+var bodyParser = require('body-parser')
+var route = require('./routes')
 
 app.use(express.static(path.join(__dirname, "..", "public")));
+app.use(bodyParser.json({limit: '1mb'})) //解析post数据
 
 let _app = route(app)
+
 var server = _app.listen(7001, function() {
 	console.log('Listening on port %d', server.address().port);
 });

diff --git a/server/routes/index.js b/server/routes/index.js
@@ -3,9 +3,20 @@ var page = require("../page.generated.js");
 var stats = require("../stats.generated.json");
 
 var getLines = require('../actions/getImgs/getLines.js')
+
+function routeEntry(req, res) {
+    	
+    try {
+        return getLines(req, res)
+    } catch (e) {
+        console.log(e, 'test');
+    } finally {
+
+    }
+}
 function route(app) {
 
-    app.get("/getImageByData",getLines);
+    app.post("/getImageByData",routeEntry);
 
 
     return app;

diff --git a/server/routes/img.js b/server/routes/img.js
@@ -1,0 +1,9 @@
+var express = require('express')
+var router = express.Router()
+var getLines = require('../actions/getImgs/getLines.js')
+
+const routers = router
+  .get('/img/getImageByData', getLines)
+  .post('/img/getImageByData', getLines)
+
+module.exports = routers
